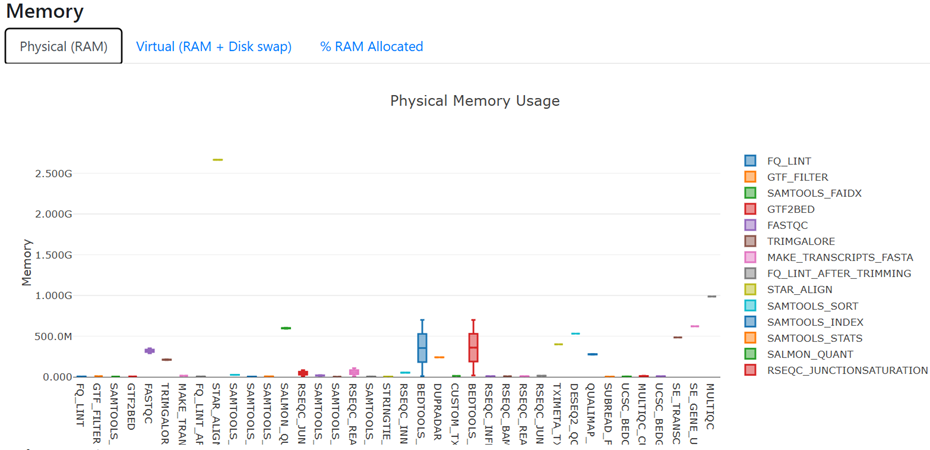
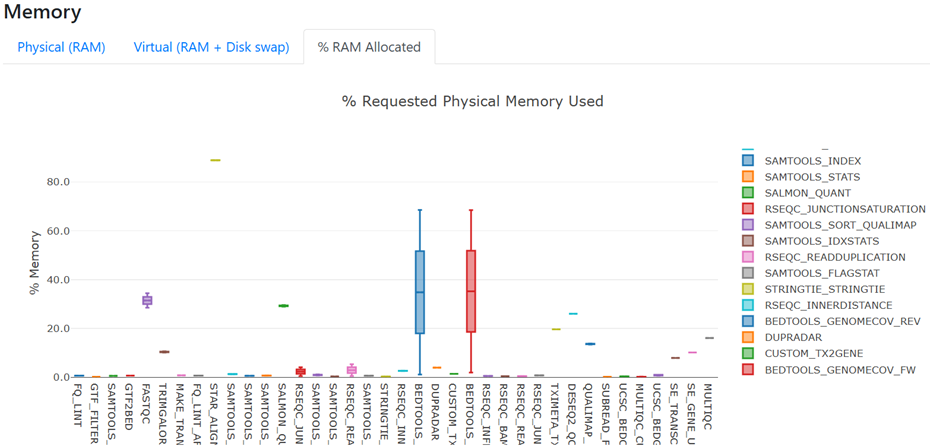
De-resourcing 2.2

diff --git a/docs/session_2/2.2_config.md b/docs/session_2/2.2_config.md
@@ -198,7 +198,7 @@ Apart from reducing resources to adapt to a low-resource compute environment, th
 - Increase process resources to adapt to large or complex datasets that require greater compute than defined by the defaults. You will know this is required when your run fails with an out of memory or out of walltime error!
 - Adjust resources for bottleneck processes to promote better throughput considering the shape of the compute hardware
 - Execute specific modules on specific node types on a cluster, for example trying out the latest GPU queue for a GPU-enabled tool used by the pipeline
-- Test the latest version of a tool used by the pipeline 
+- Test out a newer version of a tool used in the pipeline 
 - Customise outputs beyond what is possible using the nf-core pipeline parameters
 
 
@@ -362,51 +362,48 @@ We can further simplify the run command by enabling Singularity within our insti
 Since we have not changed anything that affects input or output files, all tasks should have been cached, except MultiQC. 
 
 
-## 2.2.5 Custom resource configuration using process labels
+## 2.2.5 Custom resource configuration
 
-We have already reviewed process labels in the `conf/base.config` file and examined the label and resources for one process. Next we will practice customising resources using process labels, by over-riding pipeline defaults with configurations we add to our `nectar_vm.config`. Recall that our custom config is **third highest** priority in the configuration hierarchy chart, taking precedence over defaults set in `base.config`.
-
-With our workshop VMs having only 4 CPU and 8 GB memory, we are restricted in the resource customisations we can test out. What we can test is whether adjusting resources for bottleneck processes or those that are not utilising their allocated resources can provide better throughput and efficiency considering the shape of the VM hardware. 
-
-!!! tip "Bottleneck processes"
-
-    A 'bottleneck process' is one that requires more walltime than others, and holds up the entire pipeline as downstream processes rely on its outputs. For our workshop VMs and tiny test data, this doesn't mean much, but in real-world applications with full-size data and potentially large sample cohorts, ensuring that processes are not provided more CPU or RAM than they need can help analyse your data faster. 
-
-In the nf-core/rnaseq pipeline, you may have observed that the STAR_ALIGN process is the bottleneck. 
+Each process in an nf-core pipeline is assigned a resource **label** (e.g. `process_low`, `process_medium`) which maps to a default CPU and memory value. In [Lesson 2.2.2.1](/#2221-confbaseconfig) we saw that these are set within the nf-core `conf/base.config` file. We can override these defaults for any process in a custom config file, which has the **highest priority** in the [Nextflow configuration hierarchy](#222-default-nf-core-configuration).
 
 
-!!! note "Assume you are running nf-core rnaseq on a machine with 16 CPU"
+In the next two exercises, we’ll reduce the resources assigned to processes to better match the machine we’re working on. We will add our custom resource configurations to the `nectar_vm.config` created in [Lesson 1.4.4](session_1/1.4_rnaseq/#144-setting-resource-limits).
 
-    If we set CPUs to 16 under the `resourceLimits` directive in our custom config, the STAR_ALIGN module would still only utilise 12 CPUs, as this module (as we learnt in Exercise 2.2.2.1) has the label `process_high` which sets CPUs to 12. The `resourceLimits` only changes the resources if they exceed the custom limit that has been set. 
+!!! note "Workshop VM resources"
 
-    If there were no processes with fulfilled input channels that could make use of the 4 remaining CPUs, those resources would sit idle until the STAR_ALIGN process had completed. 
-
-    Optimisation for this 16-CPU machine might for example set the CPU limit under `resourceLimits` to 8 so two samples could be aligned concurrently, or over-ride the number of CPU assigned to the STAR_ALIGN module to 16. 
-
-<br>
+    Our Nectar workshop VMs have 4 CPU and 8 GB memory. 
+    
+    In [Lesson 1.4.4](session_1/1.4_rnaseq.md/#144-setting-resource-limits) we restricted the resources available to the pipeline to 2 CPU and 6 GB RAM. This ensures the workflow can complete, while reserving some overhead so that we can continue to work on the VMs.
 
 
-We can target our configuration customisations to specific processes using [`process selectors`](https://docs.seqera.io/nextflow/config#process-selectors). These are defined within the [`process scope`](https://docs.seqera.io/nextflow/config#process-configuration), the same scope in which we have already applied our `resourceLimits`. 
+!!! tip "Gauging resources for your data and machine"
 
-Following the example scenario above, we could increase CPUs from 12 to 16 for all processes with the 'process_high' label within the `process` scope of a custom configuration file using the `withLabel` process selector:
+    It may not be required to customise the resources from their defaults for your input data and machine. To know if this is required, it can be helpful to utilise the `-profile test` run shipped with nf-core pipelines to detect any issues before commencing a run with your real data. 
 
+    If your machine does not enough CPU or RAM to meet the default resource settings, the run will fail as demonstrated in [Lesson 1.4.3](session_1/1.4_rnaseq/#143-run-the-pipeline). You can then *reduce* these resources in your custom config file.
 
-```console
-process {
-    withLabel:process_high {
-        cpus   = { 16    * task.attempt }
-    }
-}
-```
-
-<br>
+    If your real data requires **more** resources than are provided by the defaults, nf-core pipelines are configured to "retry" processes a second time with double the default CPUs and RAM. If this is not sufficient to complete your run, you can *increase* the resources within your custom config file.
 
 
-Since our workshop is using very small input data - which typically requires less RAM in bioinformatics - we may be able to increase the number of processes running at once by *decreasing* the resources for some processes.
+### 2.2.5.1 Process selector hierarchy
 
-Before customising resources to suit input data and compute, it is always good practice to follow the initial `-profile test` run with a run using representative samples from your real dataset, to gauge their resource requirements. 
+We can target our custom resource configurations to specific processes using [`process selectors`](https://docs.seqera.io/nextflow/config#process-selectors) introduced in [Lesson 1.3.6](session_1/1.3_configure/#configuring-processes). These are defined within the [`process scope`](https://docs.seqera.io/nextflow/config#process-configuration), the same scope in which we have already applied our 2 CPU and 6 GB RAM `resourceLimits`. 
 
-Either the trace text file or the html run report are a good place to review usage and get a sense of how your pipeline is running on your computer. 
+The `withName` and `withLabel` process selectors allow you to precisely customise a single process or group of processes without having to edit the nf-core source code. As usual, there is a predictable hierarchy applied by Nextflow to determine which setting is priority in the case of a setting being applied in more than one place.
+
+Process configuration settings hierarchy (from lowest to highest priority):
+
+1. Process configuration settings (without a selector)
+2. Process directives in the process definition
+3. `withLabel` selectors matching any of the process labels
+4. `withName` selectors matching the process name
+5. `withName` selectors matching the process included alias
+6. `withName` selectors matching the process fully qualified name
+
+
+### 2.2.5.1 Viewing resources used
+
+Before customising resources for the workshop VMs, let's review how the workflow has been running with the 2 CPU and 6 GB RAM over-ride we have already applied. The summary report introduced in [Lesson 2.1.6.1](2.1_params.md/#2161-summary-report) provides resource usage graphs that be helpful here. 
 
 !!! example "Exercise 2.2.5.1 :stopwatch: 3 mins"
 
@@ -414,36 +411,45 @@ Either the trace text file or the html run report are a good place to review usa
 
     The filepath should match the pattern `lesson-2.2/pipeline_info/execution_report_<date>_<time>.html`. 
 
-    Under the heading 'Resource Usage', view the figures for raw CPU usage and physical RAM. Of CPU or memory, which do you think we could reduce without harming the ability of the run to complete? 
-        
-    ??? success "Solution"
+    - Under the heading 'Resource Usage', view the figure for raw CPU usage
+        - Many of the processes are using between 1 and 2 CPU, which means they are making good use of the 2 CPU available to each process. We don't need to do anything further to customise CPU resources for our current compute environment.
 
-        ![](../assets/2.2.5.1_CPU.png)
+    ![](../assets/2.2.5.1_CPU.png)
 
-        Many of the processes are using between 1 and 2 CPU, which means they are making good use of the 2 CPU available to each process. We don't need to do anything further to customise CPU resources for our current compute environment. 
+    <br>
 
-        <br>
+    - Under the heading 'Resource Usage', view the figure for Memory and toggle to '% RAM Allocated'
+        - Most processes are using < 40% of the allocated RAM. This indicates that RAM has been *over-allocated* for our needs. Configuring our run to allocate less RAM to each process may enable faster run completion time
 
-        ![](../assets/2.2.5.1_MEM.png)
+    ![](../assets/2.2.5.1_MEM.png)
 
-        On the figure for 'Memory', all processes except STAR_ALIGN are using near to or less than 1 GB RAM. This indicates that for our workshop data, most processes could execute with less RAM and custom resource customisation is warranted.
+    <br>
 
-        
+    - Toggle the Memory figure back to 'Physical (RAM)'
+        - All processes are using < 1 GB RAM, *except* STAR_ALIGN which uses ~2.5-3 GB
 
-
+    ![](../assets/2.2.5.1_MEM-2.png)
 <br>
 
-Now we have used empirical data to guide our resource configuration, we will use the `withLabel` process selector to reduce the memory allocated to processes according to their label. 
+### 2.2.5.2 Customising with process labels
 
-We can use wildcards (`*`) and 'or' (`|`) notation with `withLabel` to apply the same configuration to more than one process label. 
+Now we have an understanding of what custom resource configurations are practical for our input data and machine, we will use the `withLabel` process selector to reduce the memory allocated to processes according to their label. 
+
+To make this simpler, we can use wildcards (`*`) and 'or' (`|`) notation with `withLabel` to apply the same configuration to more than one process label. 
 
 
 !!! example "Exercise 2.2.5.2 :stopwatch: 5 mins"
 
-    Within `nectar_vm.config`, use the 'withLabel' directive to reduce the memory for processes with labels 'process_single' and 'process_low' to 1 GB. Reduce the memory to 2 GB for processes with labels 'process_medium' and 'process_high'.
+    - Within `nectar_vm.config`, use the `withLabel` directive to reduce the memory for processes with labels 'process_single' and 'process_low' to 1 GB
+    - Reduce the memory to 2 GB for processes with labels 'process_medium' and 'process_high'
 
-    ??? hint Hint
-        'withLabel' selectors are defined within the `process` scope.
+    ??? hint "Which config scope?"
+        `withLabel` selectors are defined within the `process` scope.
+
+    ??? hint "Syntax help"
+        Inspect `conf/base.config` with the `code` command to see how `withLabel` blocks are constructed.
+        
+        We will use the same syntax, but can save a few lines by using the 'or' notation, for example `'label_1|label_2'`
 
     ??? success "Solution" 
 
@@ -461,42 +467,28 @@ We can use wildcards (`*`) and 'or' (`|`) notation with `withLabel` to apply the
             }           
         }
         singularity {
-            enabled = true
+            enabled     = true
+            cacheDir    = '/home/tdev02/singularity_cache'
         }
         ```
 
 <br>
 
-!!! warning "Problem!"
-    Recall the memory usage shown in the execution report. All processes used ~ < 1 GB *except* STAR_ALIGN, which used ~ 2.5 GB. 
-    What do you expect would happen if we submitted this run? 
 
-Given that *only* STAR_ALIGN needs more RAM, and many processes within the pipeline share the same 'process_high' label, we clearly need a sharper instrument to optimally configure resources for our workshop run.
+Before we submit this configured run, recall the memory usage shown in the execution report. All processes used ~ < 1 GB *except* STAR_ALIGN, which used ~2.5-3 GB. Our `withLabel` has reduced the memory for *all* processes with the `process_high` label, not just those that were over-allocated RAM. This could cause STAR_ALIGN to fail due to insifficient memory, or run for longer than it otherwise would.
 
-Next, we will learn how to **target specific processes** without relying on labels that may be assigned to numerous processes within the pipeline.
+We clearly need a more precise instrument! The `withName` process selector enables targeting a specific process by name. 
 
 
-## 2.2.6 Custom resource configuration using process names
+### 2.2.5.2 Customising with process names
 
-In addition to `withLabel`, Nextflow also provides the `withName` process selector. 
-
-`withName` is a powerful tool:
+The `withName` process selector is a powerful tool: 
 
 - Enables custom over-rides of default configurations at the per-process level
 - Multiple module names can be supplied using wildcards (`*`) and 'or' (`|`) notation
 - No need to edit the module `main.nf` file to add a process label
 - Has a [higher priority](https://docs.seqera.io/nextflow/config#selector-priority) than `withLabel`
 - Multiple means of name matching for **precise hierarchical application of custom configurations**
-
-
-Process configuration settings **hierarchy** (from lowest to highest priority):
-
-1. Process configuration settings (without a selector)
-2. Process directives in the process definition
-3. `withLabel` selectors matching any of the process labels
-4. `withName` selectors matching the process name
-5. `withName` selectors matching the process included alias
-6. `withName` selectors matching the process fully qualified name
 
 <br>
 
@@ -508,44 +500,38 @@ In nf-core pipelines, the fully qualified process name, also referred to as the 
 PIPELINE_NAME:WORKFLOW_NAME:SUBWORKFLOW_NAME:PROCESS_NAME
 ```
 
-!!! tip
+It can be tricky to identify the process execution path, as nf-core pipelines can contain multiple workflows and subworkflows. From a completed run, you can obtain the process execution path from the execution trace, timeline or report files within `<outdir>/pipeline_info`.
 
-    It can be tricky to evaluate the path used to execute a module before running a workflow, though in practice this challenge should never arise, as customising a run should naturally follow at least one initial test run. From the completed run, you can obtain the process execution path from the execution trace, timeline or report files within `<outdir>/pipeline_info`.
+!!! example "Exercise 2.2.6.1 :stopwatch: 2 mins"
 
-<br>
+    Identify the complete process execution path for the STAR_ALIGN module from the execution trace file, either by viewing the file with `code lesson-2.2/pipeline_info/execution_trace_<date-timestamp>.txt` or using `grep`:
 
+    ```bash
+    grep STAR_ALIGN lesson-2.2/pipeline_info/execution_trace_<date-timestamp>.txt
+    ```
 
-For the next exercise, remember that `withName` has a [higher selector priority](https://docs.seqera.io/nextflow/config#selector-priority) than `withLabel`.
+    ```console title="Output"
+    NFCORE_RNASEQ:RNASEQ:ALIGN_STAR:STAR_ALIGN (SRR3473988) 1m 42s  2       43.0%   3 GB    34.3%
+    NFCORE_RNASEQ:RNASEQ:ALIGN_STAR:STAR_ALIGN (SRR3473989) 1m 36s  2       32.9%   3 GB    34.3%
+    ```
 
-!!! example "Exercise 2.2.6.1 :stopwatch: 5 mins"
-
-    - Identify the complete process execution path for the STAR_ALIGN module
-
-    ??? hint Hint
-
-        From a previosuly completed run, you can obtain the process execution path from the execution trace, timeline or report files within `<outdir>/pipeline_info`.
-
-        For example using the execution trace file:
-
-        ```bash
-        grep STAR_ALIGN lesson-2.2/pipeline_info/execution_trace_<date-timestamp>.txt
-        ```
-
-        ```console title="Output"
-        NFCORE_RNASEQ:RNASEQ:ALIGN_STAR:STAR_ALIGN (SRR3473988) 1m 42s  2       43.0%   3 GB    34.3%
-        NFCORE_RNASEQ:RNASEQ:ALIGN_STAR:STAR_ALIGN (SRR3473989) 1m 36s  2       32.9%   3 GB    34.3%
-        ```
-
-    ??? success "Solution"
+    !!! success "Solution"
 
         ```groovy
         NFCORE_RNASEQ:RNASEQ:ALIGN_STAR:STAR_ALIGN
         ```
-    
-    - Within `nectar_vm.config`, use the 'withName' directive to allocate 3 GB memory to the STAR_ALIGN process
+
+<br>
+
+
+Using `withName`, we can now adjust the STAR_ALIGN resources specifically, without affecting any of the other processes that share the  `process_high` label. We can keep the configurations for `process_high` the same, since `withName` has a [higher selector priority](https://docs.seqera.io/nextflow/config#selector-priority) than `withLabel`. 
+
+!!! example "Exercise 2.2.6.2 :stopwatch: 5 mins"
+
+    - Within `nectar_vm.config`, use the `withName` directive to allocate 3 GB memory to the STAR_ALIGN process
 
     ??? hint Hint
-        Follow the same general syntax as `withLabel`, including enclosing the STAR_ALIGN execution path in single quotes
+        Follow the same general syntax as `withLabel`, providing the STAR_ALIGN execution path in single quotes instead of the process label
 
     ??? success "Solution" 
 
@@ -570,27 +556,55 @@ For the next exercise, remember that `withName` has a [higher selector priority]
         }
         ```
 
-
+<br>
 
 Now that we have customised resources to suit our data and compute platorm, we are ready to re-submit our run!        
 
-We now expect to see: 
-
-- Two STAR_ALIGN processes running at once (one for each of two input samples), thereby halving the time we must wait for that bottleneck process to complete before it provides the inputs required for the downstream processes
-- Potentially more upstream and downstream processes running at once, due to the reduced memory enabling up to 3 or 4 non-align processes to fit within our VM capacity of 8 GB RAM  
-
 !!! example "Exercise 2.2.6.3 :stopwatch: 2 mins"
 
-    Since we want to observe the full impact of our changes, remove `-resume` from the `run_rnaseq.sh` script file, then resubmit your run.
+    - Since we want to observe the full impact of our changes, remove `-resume` from the `run_rnaseq.sh` script file
+    - Save your script, then resubmit your run with `bash run_rnaseq.sh`
 
-    You should now see two STAR processes running at once instead of one, and 🤞 the run completes faster!
+    ```bash
+    #!/bin/bash
+
+    # parameters
+    samplesheet=~/data/samplesheet.csv
+    output_directory=lesson-2.2
+    ref_fasta=~/data/mm10_reference/mm10_chr18.fa
+    ref_gtf=~/data/mm10_reference/mm10_chr18.gtf
+    star_index=~/data/mm10_reference/STAR
+    salmon_index=~/data/mm10_reference/salmon-index
+
+    # configurations
+    profile=workshop
+    config=workshop_profile.config
+
+    nextflow run rnaseq/main.nf \
+        --input ${samplesheet} \
+        --outdir ${output_directory} \
+        --fasta ${ref_fasta} \
+        --gtf ${ref_gtf} \
+        --star_index ${star_index} \
+        --salmon_index ${salmon_index} \
+        --skip_markduplicates true \
+        --save_trimmed true \
+        --save_unaligned true \
+        -profile ${profile} \
+        -c ${config}
+    ```
 
 
-<br>
+We now expect to see: 
 
-⏲️ If you review the process execution times within the `pipeline_info` files, you'll see that even our bottleneck process completed in < 2 minutes, with most others requiring only seconds. For this demonstration, it is therefore unlikely that our run will complete much faster following our customisations for this small dataset on these workshop VMs. 
+- Two STAR_ALIGN processes running at once instead of one at a time, each using 3 GB of the total 6 GB we have allowed for the pipeline
+- Potentially more upstream and downstream processes running at once since we have reduced the memory for all other processes to 1 or 2 GB
 
-💻 Consider how this approach can be really powerful when working on HPC or cloud infrastructures, where the [`executor`](https://docs.seqera.io/nextflow/executor) and [`queue`](https://docs.seqera.io/nextflow/reference/process#queue) directives enable you to take full advantage of the compute resources available on your platform.
+!!! tip "Resource customisation on large infrastructure"
+
+    In a real world scenario, these changes may provide some meaningful reductions in pipeline run time. Consider how this approach can be really powerful when working on HPC or cloud, where the [`executor`](https://docs.seqera.io/nextflow/executor) and [`queue`](https://docs.seqera.io/nextflow/reference/process#queue) directives enable you to take full advantage of the compute resources available on your platform.
+
+    This is covered in more detail in our [Nextflow on HPC](https://zenodo.org/records/17694728) workshop.
 
 <br>
 

diff --git a/docs/session_2/2.1_params.md b/docs/session_2/2.1_params.md
@@ -500,7 +500,7 @@ nf-core have provided a safe-guard against incomplete run records by including y
         If you have run more than one run with the same output directory specified, you will see multiple execution reports. Date and timestamps ensure no pipeline_info files are over-written. 
 
     !!! tip 
-        The report as well as the `execution_trace_<date>_<time>.txt` file can be used to identify compute resources used by each process, helping to fine-tune resource configurations when building an institutional config for your compute platform. We will do this within [Lesson 2.2.5](2.2_config.md/#225-custom-resource-configuration-using-process-labels). 
+        The report as well as the `execution_trace_<date>_<time>.txt` file can be used to identify compute resources used by each process, helping to fine-tune resource configurations when building an institutional config for your compute platform. We will do this within [Lesson 2.2.5](2.2_config.md/#2251-customising-with-process-labels). 
 
 
 ### 2.1.6.2 Workflow parameters